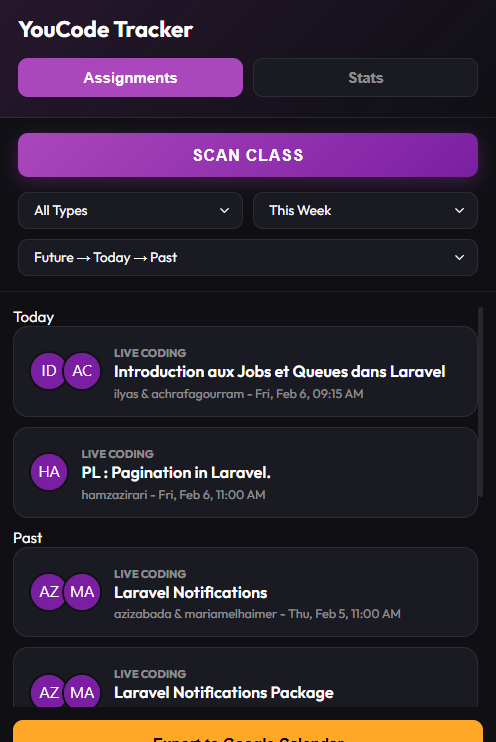
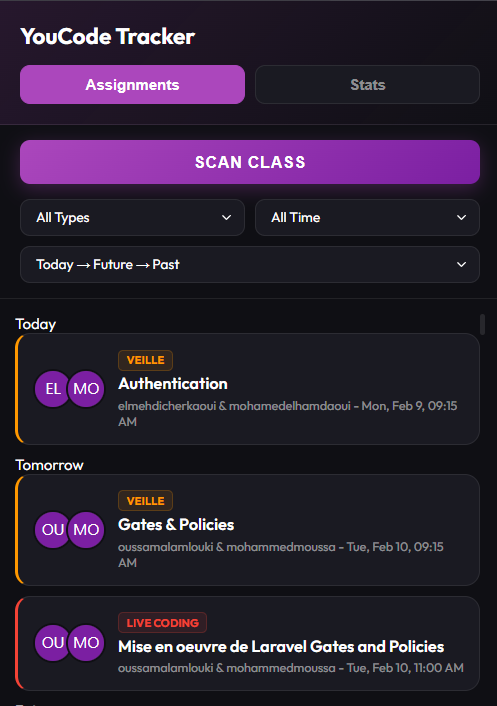
feat: v3.0.1: Fix livecoding name &Update default sort order, refine assignment type display logic, and reorder date and sort filter options.

Changed region(s): [[0.0, 0.0, 0.998, 1.0], [0.9073, 0.3428, 0.9375, 0.3739]]

diff --git a/popup.js b/popup.js
@@ -1,7 +1,7 @@
 let allAssignments = [];
 let typeFilter = 'all';
-let dateFilter = 'week';
-let sortOrder = 'future-today-past';
+let dateFilter = 'all';
+let sortOrder = 'today-future-past';
 let statsSearchTerm = '';
 
 document.querySelectorAll('.tab').forEach(tab => {
@@ -240,8 +240,10 @@ function renderAssignments() {
 
             html += `<div class="section-title">${group.title}</div>`;
             group.items.forEach(item => {
-                const type = getAssignmentType(item);
-                const typeLabel = type === 'veille' ? 'Veille' : 'Live Coding';
+                const type = item.type;
+                let typeLabel = 'Other';
+                if (type === 'veille') typeLabel = 'Veille';
+                else if (type === 'live') typeLabel = 'Live Coding';
 
                 const avatarsHtml = item.owners.map(o => {
                     let photoUrl = `https://ui-avatars.com/api/?name=${encodeURIComponent(o.name)}&background=7b1fa2&color=fff&size=64`;

diff --git a/popup.html b/popup.html
@@ -25,12 +25,12 @@
                     <option value="live">Live Coding</option>
                 </select>
                 <select id="date-filter">
+                    <option value="all" selected>All Time</option>
                     <option value="week">This Week</option>
-                    <option value="all">All Time</option>
                 </select>
                 <select id="sort-filter">
-                    <option value="future-today-past">Future → Today → Past</option>
                     <option value="today-future-past">Today → Future → Past</option>
+                    <option value="future-today-past">Future → Today → Past</option>
                     <option value="today-past-future">Today → Past → Future</option>
                     <option value="past-today-future">Past → Today → Future</option>
                 </select>

diff --git a/README.md b/README.md
@@ -7,7 +7,7 @@
   **A Chrome extension for YouCode Intranet that helps you track Veille and Live Coding assignments across your entire class.**
   
   [![Chrome Extension](https://img.shields.io/badge/Chrome-Extension-4285F4?style=for-the-badge&logo=google-chrome&logoColor=white)](chrome://extensions/)
-  [![Version](https://img.shields.io/badge/Version-3.0.0-green?style=for-the-badge)](https://github.com/)
+  [![Version](https://img.shields.io/badge/Version-3.0.1-green?style=for-the-badge)](https://github.com/)
   [![License](https://img.shields.io/badge/License-MIT-blue?style=for-the-badge)](LICENSE)
 </div>
 
@@ -92,9 +92,15 @@ youcode-tracker/
 
 ## Version
 
-3.0.0
+3.0.1
 
 ## Changelog
+
+### v3.0.1
+- Fixed "Live Coding" name display (was showing as default "Other")
+- Changed default sort order to Today → Future → Past
+- Refined assignment type display logic
+- Reordered date and sort filter options for better usability
 
 ### v3.0.0
 - Added flexible sorting options (Future, Today, Past)
